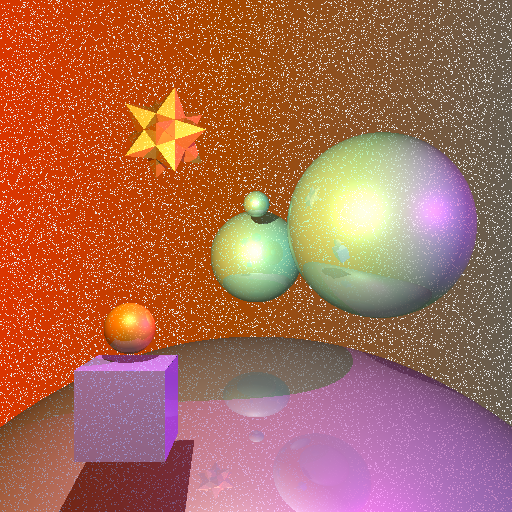
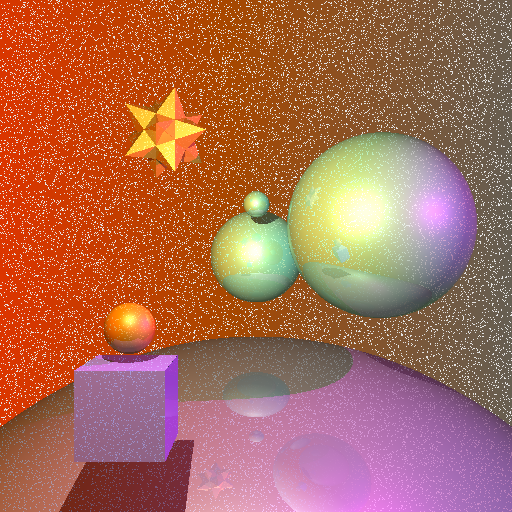
Project:Depth field added OFF

Changed region(s): [[0.0, 0.3125, 1.0, 1.0], [0.5625, 0.9062, 0.5938, 0.9375]]

diff --git a/A4/A4.cpp b/A4/A4.cpp
@@ -13,11 +13,12 @@ using namespace glm;
 
 #define ANTI_ALIASING 00
 #define REFLECTION 01
+#define DEPTH_OF_FIELD 00
 
 static const float EPS = 0.000001; // correction factor
 static const float MAX_RGB = 255.0f; // maximum rgb value
 static const float MAX_T = numeric_limits<float>::max();// max t distance
-static const int REFLECTION_HITS = 4;
+static const int REFLECTION_HITS = 3;
 static const float REFLECTION_COEFF = 0.25;
 
 
@@ -181,6 +182,25 @@ void A4_Render(
 
 			// Initialize Color
 			vec3 pixelColorVec(0.0f,0.0f,0.0f);
+			// TODO: Depth of Field
+			if (DEPTH_OF_FIELD >= 1 ){
+				int randEyePos = 4;
+				float focalPlane = 800.0f;
+				for (int i = 0; i < randEyePos; i++){
+					// TODO: clarify everything
+					vec3 moveVec = vec3((rand_float() - 0.5f )* 5,
+										(rand_float() - 0.5f )* 5,
+										0 ); // TODO: random floats
+					vec3 eyePosVec = eye + moveVec;
+					float ratio = (dirVec.z - focalPlane)/dirVec.z;
+					vec3 focalDirVec = dirVec * ratio;
+					focalDirVec = focalDirVec - moveVec;
+					ray.setOrigin(eyePosVec);
+					ray.setDirection(focalDirVec);
+					pixelColorVec += rayTraceRGB(root,ray,eye,ambient,lights) / randEyePos;	
+				}
+
+			}
 
 			// Anti-Aliasing
 			if (ANTI_ALIASING >= 1 ){
